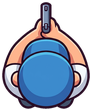
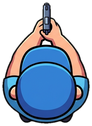
New rowdy design, Robot rowdy, side views in the lobby
- Gunner, Shotgunner and Sniper use the new Gemini top views
  (make_comic_sprites.py --scale keeps their relative sizes); the enemy
  bot keeps its old look.
- Robot: new playable rowdy (500 coins): 160 HP, slow, heavy bolts;
  super "Shockwave" fires a ring of 16 bolts (spread >= pi = ring from
  the body centre, aim preview = circle).
- The lobby pedestal shows the side views (assets/images/side/,
  Assets.drawStanding; Kenney style keeps the top view).

diff --git a/tools/make_comic_sprites.py b/tools/make_comic_sprites.py
@@ -1,12 +1,20 @@
 #!/usr/bin/env python3
 """Turn AI-generated character images (white background, art facing UP) into game sprites.
 
-Usage: python3 tools/make_comic_sprites.py ~/Downloads/yard-wars-art
+Usage: python3 tools/make_comic_sprites.py ~/Downloads/yard-wars-art [name ...]
+       python3 tools/make_comic_sprites.py --side ~/Downloads/yard-wars-art-new/side [name ...]
 
-For each <name>.png in NAMES: remove the white background (flood fill from the image
+For each <name>.png in NAMES (or only the names given): remove the white background (flood fill from the image
 border, so white inside the outline stays), shrink the mask a little to drop the JPEG
 fringe, trim, scale to a fixed width and save to assets/images/comic/<name>.png.
 Prints the body origin and muzzle (in output pixels) to put into src/rowdies.lua.
+
+--scale K: scale every image by K instead of to WIDTH (keeps the sizes the images were
+drawn at: a slim sniper isn't blown up to the width of the others; 0.27 for
+~/Downloads/yard-wars-art-new/top makes the gunner 88px wide).
+
+--side: side views (standing, facing right) for the lobby: same cut-out, scaled to
+SIDE_HEIGHT px tall, saved to assets/images/side/<name>.png (no origin/muzzle).
 """
 import collections
 import os
@@ -14,11 +22,14 @@ import sys
 
 from PIL import Image, ImageFilter
 
-NAMES = ["gunner", "shotgunner", "sniper", "bot"]
+NAMES = ["gunner", "shotgunner", "sniper", "bot", "robot"]
 WIDTH = 88        # output width in px (drawn at Assets.comicScale = 0.5 -> 44 world px)
 WHITE = 225       # background = all channels at least this bright
 PAD = 2           # transparent border around the trimmed sprite
+SIDE_NAMES = ["gunner", "shotgunner", "sniper", "robot"]
+SIDE_HEIGHT = 400  # lobby: drawn up to ~300 HUD px tall, x2 for high-DPI screens
 OUT_DIR = os.path.join(os.path.dirname(__file__), "..", "assets", "images", "comic")
+SIDE_DIR = os.path.join(os.path.dirname(__file__), "..", "assets", "images", "side")
 
 
 def background_mask(im):
@@ -44,14 +55,28 @@ def background_mask(im):
     return mask.filter(ImageFilter.MinFilter(5)).filter(ImageFilter.GaussianBlur(1))
 
 
-def process(src_dir, name):
+def cut_out(src_dir, name):
     im = Image.open(os.path.join(src_dir, name + ".png")).convert("RGB")
     rgba = im.convert("RGBA")
     rgba.putalpha(background_mask(im))
     bbox = rgba.getchannel("A").point(lambda a: 255 if a > 8 else 0).getbbox()
-    rgba = rgba.crop(bbox)
-    k = WIDTH / rgba.width
-    rgba = rgba.resize((WIDTH, round(rgba.height * k)), Image.LANCZOS)
+    return rgba.crop(bbox), bbox
+
+
+def process_side(src_dir, name):
+    rgba, bbox = cut_out(src_dir, name)
+    k = SIDE_HEIGHT / rgba.height
+    rgba = rgba.resize((round(rgba.width * k), SIDE_HEIGHT), Image.LANCZOS)
+    out = Image.new("RGBA", (rgba.width + 2 * PAD, rgba.height + 2 * PAD))
+    out.alpha_composite(rgba, (PAD, PAD))
+    out.save(os.path.join(SIDE_DIR, name + ".png"))
+    print(f"{name:10s} side view {out.width}x{out.height}  (source bbox {bbox})")
+
+
+def process(src_dir, name, scale=None):
+    rgba, bbox = cut_out(src_dir, name)
+    k = scale or WIDTH / rgba.width
+    rgba = rgba.resize((round(rgba.width * k), round(rgba.height * k)), Image.LANCZOS)
     out = Image.new("RGBA", (rgba.width + 2 * PAD, rgba.height + 2 * PAD))
     out.alpha_composite(rgba, (PAD, PAD))
     out.save(os.path.join(OUT_DIR, name + ".png"))
@@ -59,7 +84,7 @@ def process(src_dir, name):
     # Body origin: centre of a circle as wide as the sprite resting on its bottom edge
     # (the head/shoulders); muzzle: topmost opaque pixel (the weapon points up).
     w, h = out.size
-    ox, oy = w / 2, h - PAD - WIDTH / 2
+    ox, oy = w / 2, h - PAD - rgba.width / 2
     alpha = out.getchannel("A").load()
     top = next(y for y in range(h) if any(alpha[x, y] > 128 for x in range(w)))
     xs = [x for x in range(w) if alpha[x, top] > 128]
@@ -69,10 +94,23 @@ def process(src_dir, name):
 
 
 def main():
-    src_dir = os.path.expanduser(sys.argv[1] if len(sys.argv) > 1 else "~/Downloads/yard-wars-art")
+    args, side, scale = sys.argv[1:], False, None
+    while args and args[0].startswith("--"):
+        if args[0] == "--side":
+            side, args = True, args[1:]
+        elif args[0] == "--scale":
+            scale, args = float(args[1]), args[2:]
+        else:
+            sys.exit("unknown option " + args[0])
+    src_dir = os.path.expanduser(args[0] if args else "~/Downloads/yard-wars-art")
+    if side:
+        os.makedirs(SIDE_DIR, exist_ok=True)
+        for name in args[1:] or SIDE_NAMES:
+            process_side(src_dir, name)
+        return
     os.makedirs(OUT_DIR, exist_ok=True)
-    for name in NAMES:
-        process(src_dir, name)
+    for name in args[1:] or NAMES:
+        process(src_dir, name, scale)
 
 
 if __name__ == "__main__":

diff --git a/CLAUDE.md b/CLAUDE.md
@@ -107,7 +107,7 @@ the official LÖVE for Android 11.5 (same MTP path).
 - `src/join.lua` — join screen: address field in the upper half (last address saved; phone
   keyboard opens only when the field is tapped), found games below as tap-to-join buttons
 - `src/profile.lua` — progress on this device (`profile.txt`): coins + bought rowdies (by
-  name). Start: only the Shotgunner (`STARTER`, no `price`); Gunner 150, Sniper 300
+  name). Start: only the Shotgunner (`STARTER`, no `price`); Gunner 150, Sniper 300, Robot 500
   (`price` in `src/rowdies.lua`). Coins: own `coin` events (boxes) + round reward on
   `matchOver` (`REWARD`: win 30, draw 10, loss 5, waves 5 per cleared wave), added in
   main.lua's `playEvents` — so LAN clients earn on their own device too.
@@ -127,7 +127,8 @@ the official LÖVE for Android 11.5 (same MTP path).
 - `conf.lua` — title "Yard Wars", identity "yard-wars" (save folder, keep), 1280x720 resizable window
 - `src/assets.lua` — tilesheet quads + Kenney pose images + comic sprites; `Assets.style`
   ("comic" | "kenney"), `Assets.look(def)` → plain-data look (image names, origin, muzzle;
-  usable without graphics), `Assets.drawPortrait` (rowdy picture for menus)
+  usable without graphics), `Assets.drawPortrait` (rowdy picture for menus, top view),
+  `Assets.drawStanding` (side view on the lobby pedestal, comic style only)
 - `src/arena.lua` — 40x24 tiles (64px), left half defined and mirrored to the right;
   walls (solid, 2x2), crates (solid), bushes (hiding, 2x2); `resolveCircle`, `hitsSolid`,
   raycast, `hasLineOfSight`, `randomOpenPoint`, spawns
@@ -146,10 +147,11 @@ the official LÖVE for Android 11.5 (same MTP path).
   (pellets/spread), aim beam/cone (`drawAim`), health/ammo bars, animation (pose, walk
   sway/bob, breathing, recoil, muzzle flash, spawn pop-in); logic reports via `self:emit`
 - `src/rowdies.lua` — data: Gunner (pistol), Shotgunner (5 pellets, 0.6 rad cone),
-  Sniper (range 720), plus `Rowdies.bot` (enemy look + stats). Supers (`stats.super`,
+  Sniper (range 720), Robot (tank: 160 HP, slow, heavy single bolts), plus `Rowdies.bot` (enemy look + stats). Supers (`stats.super`,
   charged by normal-attack damage, `charge` = damage needed): Gunner "Bullet Storm" (10-bullet
   fan), Shotgunner "Wrecking Ball" (big slow piercing ball), Sniper "Railgun" (fast,
-  long, piercing). Super bullets: own `radius`, `wallRadius` (smaller size against walls: the Wrecking Ball
+  long, piercing), Robot "Shockwave" (ring of 16 bolts: `spread` >= pi means an even ring
+  from the body centre, aim preview = circle of its range). Super bullets: own `radius`, `wallRadius` (smaller size against walls: the Wrecking Ball
   grazes them instead of vanishing next to one), `pierce` (each rowdy hit once). See the comment at the top for
   stat meanings and the `comic` look entry.
 - `src/player.lua` — Player subclass, `update(dt, input, bullets)`, 0.25s fire buffer
@@ -173,7 +175,10 @@ the official LÖVE for Android 11.5 (same MTP path).
 - `tools/build.sh`, `tools/publish.sh`, `tools/publish.conf` — packing + signed upload (see
   "Publishing updates")
 - `tools/make_comic_sprites.py` — AI image (white bg, facing up) → cut out, trimmed,
-  88px-wide sprite; prints origin + muzzle for `src/rowdies.lua`
+  88px-wide sprite; prints origin + muzzle for `src/rowdies.lua`; optional names after the
+  folder process only those (`... ~/Downloads/yard-wars-art-new/top robot`); `--scale K` keeps the
+  relative sizes of the source images instead of scaling each to 88px wide; `--side` makes
+  the lobby side views (`assets/images/side/`, 400px tall)
 
 ## Conventions
 - Code and comments in English.
@@ -188,7 +193,10 @@ the official LÖVE for Android 11.5 (same MTP path).
 
 ## Art
 - Comic style (default): one still sprite per character, generated with
-  Google Gemini (prompts + raw 1024px JPEGs in ~/Downloads/yard-wars-art/, not in the repo),
+  Google Gemini (prompts + raw 1024px JPEGs in ~/Downloads/yard-wars-art/, not in the repo;
+  the newer top + side view sheets are in ~/Downloads/yard-wars-art-new/, split into top/ and
+  side/; the rowdies use these since 2026-10-04 (made with `--scale 0.27`, the Robot from
+  top/bot.png), the enemy bot keeps the old sprite from ~/Downloads/yard-wars-art/),
   top-down, facing UP, bold outline. Stored at 2x (88px wide), drawn at
   `Assets.comicScale` 0.6 with mipmaps; rotates around the head (`origin`). Keeps the
   Kenney-style animation (sway, bob, recoil, flash); no reload pose.
